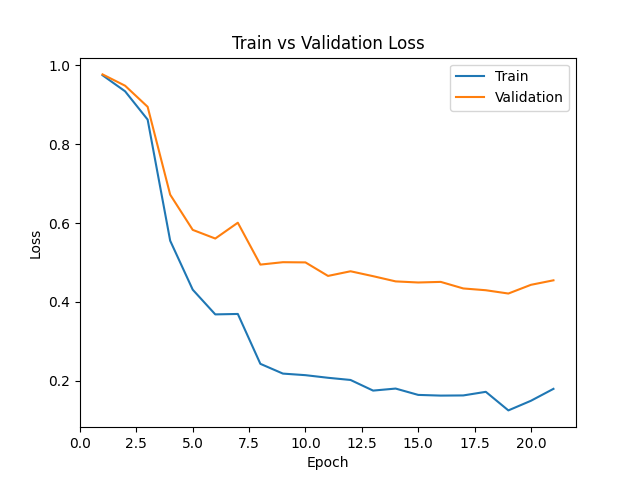
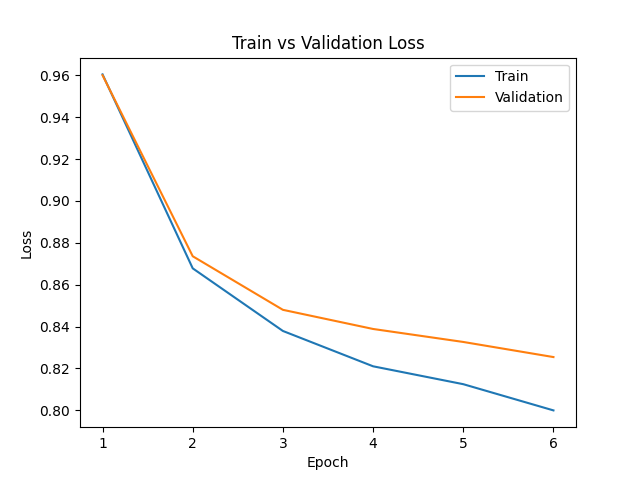
testing

diff --git a/atomicdeep.py b/atomicdeep.py
@@ -15,12 +15,15 @@ import numpy as np
 import time
 import torch.nn.functional as F
 import os
+import logging
+logging.basicConfig(format='%(asctime)s | %(levelname)s: %(message)s', level=logging.NOTSET)
+
 
 device = torch.device("cuda" if torch.cuda.is_available() else "cpu")
-
+logging.info(f"Using device {device}")
 
 GAME_PER_FILE = 1000
-DATAPOINTS = 3000
+DATAPOINTS = 500000
 
 
 class ChessDataset(Dataset):
@@ -57,10 +60,10 @@ def get_data_loader(batch_size):
   )
 
   train_loader = DataLoader(
-      train_dataset, batch_size= batch_size, shuffle=True
+      train_dataset, batch_size= batch_size, shuffle=True, num_workers=2
   )
   valid_loader = DataLoader(
-      valid_dataset, batch_size = batch_size, shuffle=True
+      valid_dataset, batch_size = batch_size, shuffle=True, num_workers=2
   )
   test_loader = DataLoader(
       test_dataset, batch_size = batch_size,  shuffle=True
@@ -197,7 +200,9 @@ def train_net(net, batch_size=64, learning_rate=0.01, num_epochs=30):
     torch.manual_seed(1000)
     ########################################################################
     # Obtain the PyTorch data loader objects to load batches of the datasets
+    logging.info("Loading data...")
     train_loader, val_loader, test_loader = get_data_loader(batch_size)
+    logging.info("Done loading data")
     ########################################################################
     criterion = nn.MSELoss()
     # optimizer = SGD(net.parameters(), lr=learning_rate, momentum=0.9)
@@ -217,7 +222,7 @@ def train_net(net, batch_size=64, learning_rate=0.01, num_epochs=30):
     train_acc[epoch] = accuracy(net, train_loader)
     val_err[epoch], val_loss[epoch] = eval(net, val_loader, criterion)
     val_acc[epoch] = accuracy(net, val_loader)
-    print(("Before training, Epoch {}: Train err: {}, Train loss: {}, Train acc: {} |"+
+    logging.info(("Before training, Epoch {}: Train err: {}, Train loss: {}, Train acc: {} \n"+
             "Validation err: {}, Valid loss: {}, Validation acc: {}").format(
                 epoch,
                 train_err[epoch],
@@ -232,7 +237,7 @@ def train_net(net, batch_size=64, learning_rate=0.01, num_epochs=30):
     # Loop over the data iterator and sample a new batch of training data
     # Get the output from the network, and optimize our loss function.
     start_time = time.time()
-    print('start training')
+    logging.info("Starting training...")
     for it in range(num_epochs - 1):  # loop over the dataset multiple times
         epoch = it + 1
         total_train_loss = 0.0
@@ -258,7 +263,7 @@ def train_net(net, batch_size=64, learning_rate=0.01, num_epochs=30):
         train_acc[epoch] = accuracy(net, train_loader)
         val_err[epoch], val_loss[epoch] = eval(net, val_loader, criterion)
         val_acc[epoch] = accuracy(net, val_loader)
-        print(("Epoch {}: Train err: {}, Train loss: {}, Train acc: {} |"+
+        logging.info(("Epoch {}: Train err: {}, Train loss: {}, Train acc: {} \n"+
                "Validation err: {}, Valid loss: {}, Validation acc: {}").format(
                    epoch + 1,
                    train_err[epoch],
@@ -270,7 +275,7 @@ def train_net(net, batch_size=64, learning_rate=0.01, num_epochs=30):
         # Save the current model (checkpoint) to a file
         model_path = get_model_name(net.name, batch_size, learning_rate, epoch)
         torch.save(net.state_dict(), model_path)
-    print('Finished Training')
+    logging.info('Finished Training')
     end_time = time.time()
     elapsed_time = end_time - start_time
     print("Total time elapsed: {:.2f} seconds".format(elapsed_time))
@@ -308,12 +313,15 @@ class ChessNet(nn.Module):
         # removed tanh because it was saturating, so the model could not learn
         return x
 
-
+ 
 neuralnet = ChessNet()
 neuralnet.to(device)
-batch_size = 100
+## good parameters: batch_size = 100, learning_rate = 0.01, num_epochs = 20
+batch_size = 500
 learning_rate = 0.01
-num_epochs = 20
+num_epochs = 7
+
+
 
 # print number of trainable parameters
 pytorch_total_params = sum(p.numel() for p in neuralnet.parameters() if p.requires_grad)
